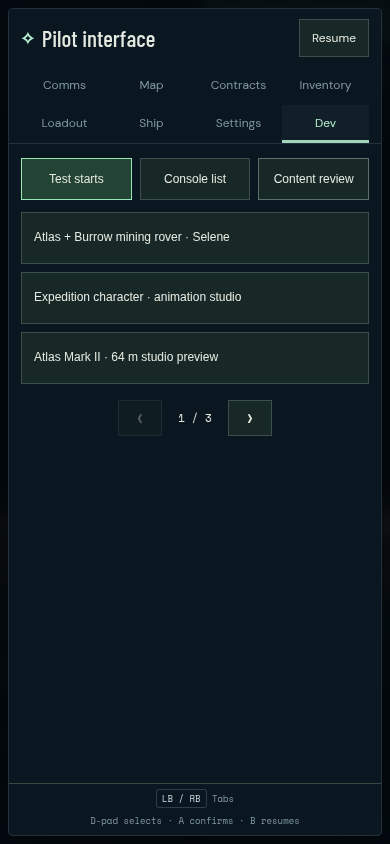
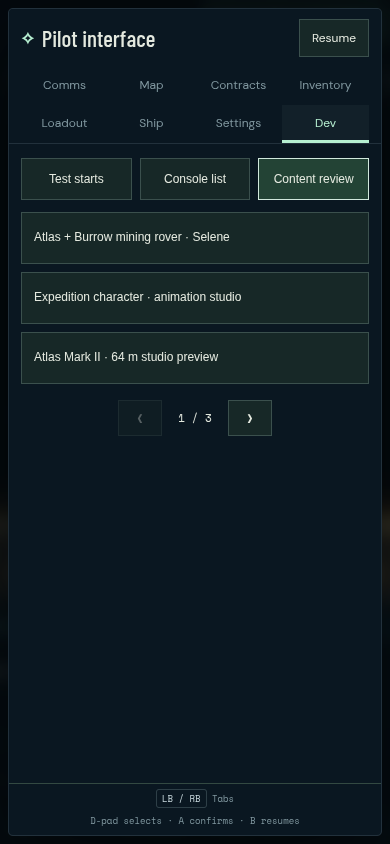
Complete combined development content review with passing browser evidence

Changed region(s): [[0.6462, 0.154, 0.9538, 0.2464], [0.0308, 0.1848, 0.3385, 0.2464]]

diff --git a/scripts/content-review.spec.js b/scripts/content-review.spec.js
@@ -50,7 +50,7 @@ test('new character physically leaves the Nomad, jumps, holds its weapons and re
 
 test('content review links, construction categories and isolated sandbox saves survive the combined menu',async({page})=>{
  const log=diagnostics(page),pad=await controller(page);
- await page.goto('/?seed=7291');await ready(page);await expect(page.locator('#dev-launcher')).toBeVisible();await frames(page,10);
+ await page.goto('/?seed=7291&debug');await ready(page);await expect(page.locator('#dev-launcher')).toBeVisible();await frames(page,10);
  await pad.choose('dev-page-review');await expect(page.locator('.dev-review-list')).toBeVisible();await expect(page.locator('[data-dev-page=review]')).toHaveAttribute('aria-pressed','true');
  await frames(page,15);await page.screenshot({path:join(output,'content-review-desktop.png')});
  const routes=await page.locator('.dev-review-list>a').evaluateAll(links=>links.map(a=>({key:a.dataset.controllerKey,href:a.href})));

diff --git a/docs/development/status.md b/docs/development/status.md
@@ -1,23 +1,34 @@
 # Verified development status
 
-**Snapshot: 2026-09-07, combined runtime through `7ba1fbd`.** This page states
+**Snapshot: 2026-09-07, combined review runtime through `4694776` (SA-INT-002).** This page states
 capabilities and gaps; [ROADMAP](../../ROADMAP.md) states ambitions. New governance
 and tooling changes do not certify the entire game as finished.
 
 | Area | Evidence-backed development state | Material gaps |
 | --- | --- | --- |
 | Worlds | Seeded Aeon, Selene, Pyre, Miasma, stellar encounter and canonical rock relief integrated; actual five-world browser tour | Broad visual/performance acceptance, hydrology, caves, shared dynamic weather |
-| Flight | Continuous flight, heading drive, gear limits, differentiated handling, crashes and moving cabins | Complete fleet/server parity and deeper engineering |
+| Flight | Continuous flight, targeted/heading drive, gear limits, finite-thrust momentum, combat/cruise modes, differentiated handling, crashes and moving cabins | Complete fleet/server parity and deeper engineering |
 | Ships | Flyable Nomad 02, Kestrel and legacy 30 m Atlas | 64 m Atlas is a separate 59,443-triangle geometry studio; final materials/flight integration open |
 | Station | Hangar/concourse, physical boarding, services and local opening integrated | Opt-in exterior geometry preview integrated; final materials/art/timing and wider multi-user acceptance open |
-| Mining/building | Local mining including useful Aeon loose stones, inventory/equipment, processing and construction | Full authoritative mining/building persistence and economy not integrated |
-| Multiplayer | Ten-player prototype, persistent PostgreSQL/Prisma accounts and inventory, comms-assigned hangars, authoritative hits, remote players | Local database survives restarts; no SMTP; online Nomad only; live ten-person soak not established here |
-| Combat | Offline Nomad/Kestrel patrol encounters, shield/hull damage and recovery; integrated controller/browser evidence | No reward ledger, durable mission, physical weapon fittings or multiplayer NPC authority |
-| Audio | Six local score variants plus material footsteps/weapon/cutter synthesis | Final mix/listening review, broad surface and remote audio coverage |
-| Developer entry | Three ships, 14 starts, temporary saves and shared seed URLs | A dev start is explicit teleport; it does not prove continuous travel by itself |
+| Mining/building | Local mining including Aeon loose stones, inventory/equipment, processing, saved supply sandbox and21-piece construction kit with facilities/pads | Full authoritative mining/building persistence and economy not integrated |
+| Characters | Expedition suit is the default local/remote model, with corrected leg rig, calibrated palms,26clips and an animation studio | Final art/motion and whole-scene performance acceptance remain open |
+| Rover | Offline Atlas/Burrow start with physical lift, twin-cutter mining, saved ore/transfer and flight carriage; full injected-controller route verified | Art polish, keyboard/touch and multiplayer replication remain open |
+| Multiplayer | Ten-player prototype, persistent PostgreSQL/Prisma accounts and inventory, comms-assigned hangars, authoritative hits, assigned remote suit colors | Local database survives restarts; no SMTP; online Nomad only; live ten-person soak not established here |
+| Combat | Offline Nomad/Kestrel patrol encounters, shield/hull damage and recovery; integrated controller/browser evidence | No reward ledger, durable mission or multiplayer NPC authority; fitted S1/S2/S3 weapons are integrated |
+| Audio | Six local score variants, material footsteps/weapon/cutter synthesis, thrust-responsive engines, Doppler flybys and building/creature effects | Final mix/listening review, broad surface and remote audio coverage |
+| Developer entry | Three ships, paged world/habitat starts, temporary saves, shared seeds and one content-review menu | A dev start is explicit teleport; it does not prove continuous travel by itself |
 | Contribution process | Governance/roadmap/helpers/CI integrated in PR52; default dev and protected shared branches verified | Newcomer onboarding/restore rehearsal and additional human maintainers remain open |
 
-The combined launcher checkpoint passed 650 unit checks, 79 multiplayer checks
+Current content review passes834unit tests,90multiplayer checks (one explicit
+SQL fixture skipped), production build, repository checks and six combined browser
+cases across focused runs. The later landmark material passes8focused invariants
+and its actual-game shader tour. See [combined review evidence](../qa/dev-content-review.md)
+for source boundaries, captures, input coverage and remaining gates. Hostile wildlife
+is offline; Pyrebear controller gameplay is checked while the corrected Suloher
+journey remains owner work. Chat/friends, cargo trading and base power continue in
+separate branches and are not installed by this checkpoint.
+
+Historical validation follows. The combined launcher checkpoint passed 650 unit checks, 79 multiplayer checks
 with one PostgreSQL-only skip, a build and focused browser journeys on Chromium
 151 / AMD 860M ANGLE at 1440×900 and 390×844. The subsequent hangar/gravity merge
 passed focused tests, build and a two-pilot browser journey; its multiplayer suite

diff --git a/docs/qa/dev-content-review.md b/docs/qa/dev-content-review.md
@@ -42,12 +42,20 @@ invalidating another worktree's optimized dependencies when sharing node_modules
   skipped without its disposable-database setting. No schema migration was added.
 - Production build with `VITE_DEV_TOOLS=1` passes; existing large-chunk advisory
   remains. The API and PostgreSQL data were not used as disposable test fixtures.
-- Initial combined Chromium review: four cases pass (character studio, physical
-  Nomad controller route, phone review pages and remote rig/colors). Two cases
-  require a narrow rerun: the controller test awaited animation frames after
-  triggering its intended page navigation, and the studios reported two HTTP404s.
-  The navigation wait now follows the destination; HTTP errors retain their URL
-  and the sound studio declares its existing favicon explicitly.
+- **Six combined Chromium cases pass across focused runs.** Character studio
+  (desktop/phone), physical Nomad controller exit/jump/rifle fire/three held
+  weapons/return, controller review navigation/build categories/sandbox reload,
+  touch review pagination, actual prop/audio studios and remote suit shaders/colors.
+  Final review-menu case passed in2.2min; no captured HTTP/page/console errors.
+- Initial integration browser failures are retained in local cache: the test
+  awaited animation frames after navigating; the sound studio lacked an explicit
+  favicon; and the build-menu inspector omitted the debug query that exposes its
+  read-only navigation handle. Destination-aware waits, the favicon declaration
+  and explicit test debug flag resolved them. No game simulation was mutated to
+  get these physical/input checks to pass.
+- Full-range repository checks and12 contributor-framework tests pass. Eight
+  landmark/server invariants also pass after material4f9d472. The final bundle
+  passes its production build; later merges contain QA/docs only.
 - Source task ledgers are marked integrated in this combined branch, releasing
   overlapping claims here. Feature owners retain separate ongoing work; this
   status does not declare final asset/gameplay acceptance.
@@ -84,8 +92,12 @@ injected standard Gamepads, not physical hardware.
 - Construction expansion has owner controller workshop/rack/pad/ramp routes.
   Expanded-kit independent art review, hardware timing and pebble exclusion above
   low decks remain open. The earlier Opus score covers the original kit only.
-- New deer repair and further landmark material refinement started separately;
-  no unfinished source or absent jacket asset was copied into this checkpoint.
+- Landmark material `4f9d472` is integrated after its actual-game shader tour,
+  refined fissure rerender and builder image inspection. Eight landmark/server
+  invariants pass in the combined branch; geometry, contact and seeds are unchanged.
+  Comparison and art/performance limits are in [its record](landmark-weathering/README.md).
+- New deer repair, cargo/trading, base power and multiplayer social work continue
+  separately. No unfinished source or absent jacket asset was copied here.
 
 ## Combined visual evidence
 
@@ -95,7 +107,9 @@ phone390×844 CSS pixels. These are render/input checks, not FPS acceptance.
 - [New character in the hangar with rifle](dev-content-review/character-rifle.png).
 - [Jump pose during the physical controller journey](dev-content-review/character-jump.png).
 - [Remote suits with three assigned colors and weapon grips](dev-content-review/remote-suits.png).
+- [Desktop content-review menu](dev-content-review/review-desktop.png).
 - [Touch content-review menu](dev-content-review/review-phone.png).
+- [Construction facilities stay within the build screen](dev-content-review/construction-facilities.png).
 
 Raw diagnostics remain in the local cache, outside Git. The three weapons were
 visually checked in hand; the gameplay journey fired the rifle and tested that

diff --git a/HANDOFF.md b/HANDOFF.md
@@ -2605,3 +2605,43 @@ rerun now (about1–2min, one worker). Material's actual-game shader check passe
 including that narrow committed material checkpoint before the final bundle.
 Please preserve this window through explicit release. No new feature lanes or
 dirty source are being added. Shared5178 promotion follows the checked result.
+
+SA-WORLD-002 CHECKED SOURCE READY for SA-INT-002: art/landmark-weathering
+4f9d472 (80f83b8 +4f9d472) from dev6d3abb0 is ready to consume. Runtime diff
+is ONLY src/landmark-material.js; no main/navigation/geometry/lighting/server
+or bitmap changes. Build,8 landmark/server invariants, repo checks and actual
+Chromium final1/1(1.5m, no errors) pass. Before/after tour1/1(2.4m) also passed;
+its too-wide dark contour lines were refined in4f9d472. Final low-flight, close
+face, bridge, shelter,1.4km and bothLOD-overlap images inspected by builder.
+Stronger grain/relief and mineral/weather variation retain the accepted shapes.
+Final captures ~/.cache/star-agent-rock-weathering-final; before captures in
+~/.cache/star-agent-rock-weathering-compare. QA docs/images commit follows.
+Please include this narrow checked material in the serialized local promotion;
+no API/database restart is required for this shader-only change. Independent
+art acceptance/FPS/physical-device claims remain separate. GPU is released.
+
+SA-WORLD-002 MATERIAL QA ARCHIVED: art/landmark-weathering now contains the
+checked4f9d472 runtime plus e9f0d78's six curated game captures and complete
+QA record at docs/qa/landmark-weathering/README.md. The only runtime module
+remains landmark-material.js. Branch is ready for the serialized shared merge;
+PR63's bounded material commits are44fd1a7/5d1d030 with matching QA9a9bf54.
+Please include the branch tip (also links the old geometry QA to the new record).
+No source edits remain, independent art scoring is not claimed. On promotion,
+add a docs/local-development.md row and mark SA-WORLD-002 integrated; a shader
+source refresh is sufficient, with no database/API restart needed for this lane.
+
+SA-INT-002 final window extension: phone selected-tab/pagination and actual
+bundled prop/audio now pass without HTTP/console errors. Controller enters
+sandbox/build correctly; its read-only uiArmed assertion needs the debug query
+flag (navigation is intentionally not public otherwise). One affected case
+rerunning now, ~90seconds; no runtime changes or broad repeat suite. Please
+preserve the current5523 window until explicit release.
+
+SA-INT-002 GPU RELEASE17:36UTC: final controller review-menu/sandbox category
+and saved-bank route passes2.2m, zero captured HTTP/page/console errors. All six
+combined review cases now pass across focused runs: character studio, physical
+Nomad controller exit/jump/rifle/three grips/return, menu+sandbox, touch pages,
+prop/audio, remote shader/colors. No owned browser remains. Fauna/cargo/rover
+and social may resume their coordinated queue. Promoting the frozen combined
+candidate to persistent5178 now; one owned service restart updates8087 with
+the included momentum authority changes. Existing PostgreSQL data is preserved.

diff --git a/docs/local-development.md b/docs/local-development.md
@@ -105,6 +105,7 @@ schema: its expression indexes/checks and deployed migration history are retaine
 | Surface mist, volcanic ash, toxic wisps and shallow lunar dust | `feat/world-atmospherics` at `8bcdcc3` |
 | Textured, mineable Aeon stones for aggregate/binder/concrete | `feat/aeon-mineable-stones` at `554cb17` (PR #54) |
 | Rare large Aeon landmarks, overhangs and stone bridges with physical contact | `feat/landmark-rocks` at `b4efa8f` ([PR #63](https://github.com/AvonMexicola/star-agent/pull/63)) |
+| Layered landmark grain, relief and seeded weathering/mineral variation | `art/landmark-weathering` runtime `4f9d472`, reviewed images `f88c497` |
 | Six local soundtrack variants with scene transitions | `feat/suno-soundtrack` at `f29c30d` |
 | Footsteps, weapons, mining, thrust-responsive engines and spatial flybys | `feat/gameplay-audio` at `5a128f3`, construction/fauna audio through `6d3abb0` |
 | Expedition character, corrected hips, hands, animations and studio | Preserved owner checkpoint `0bb6a6a`; combined local/remote binding in `3bd7d61` |
